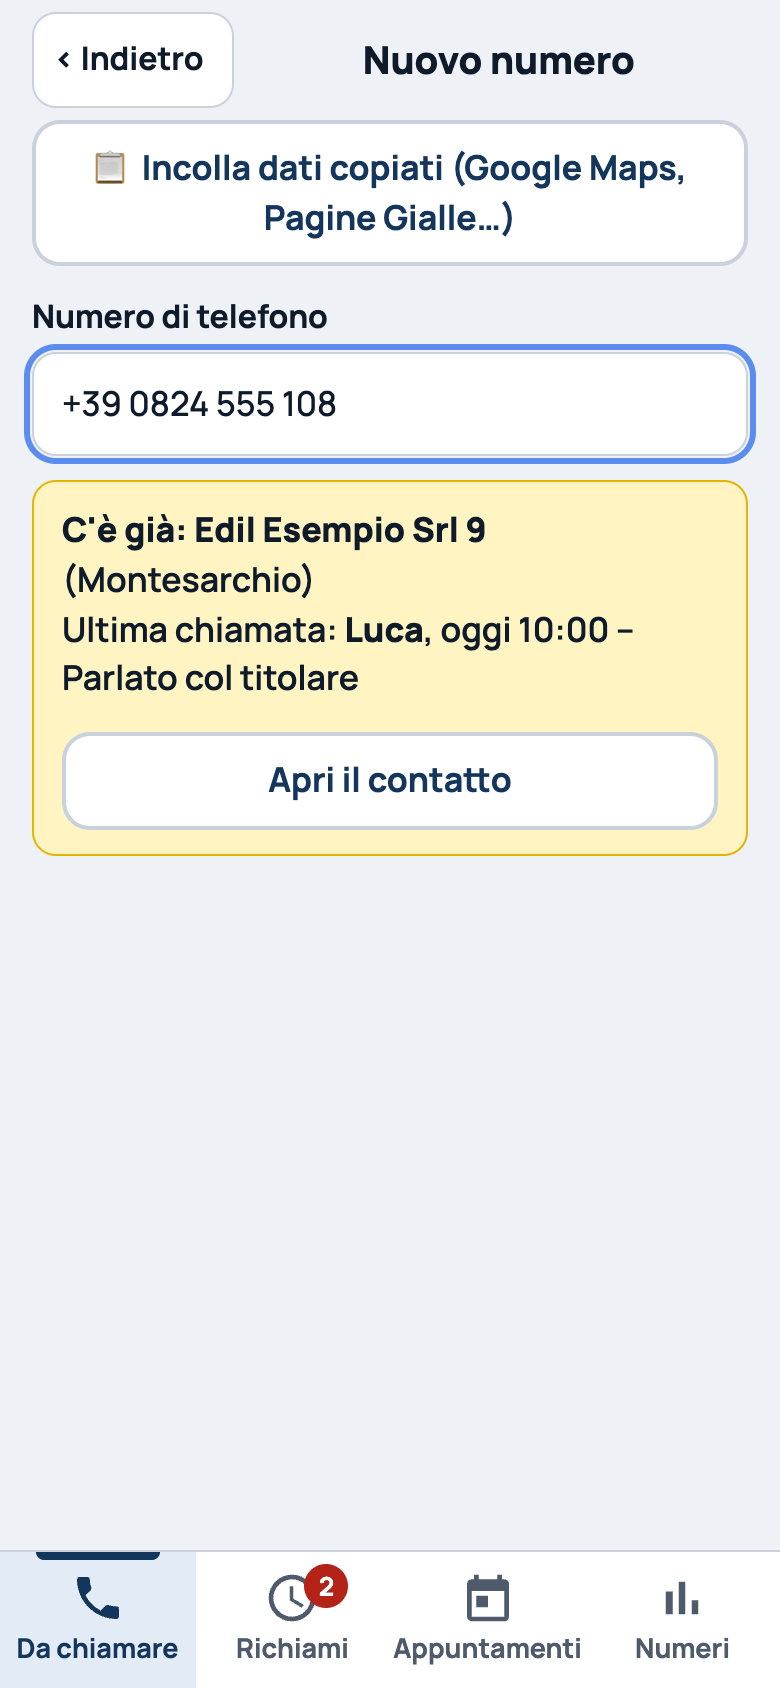
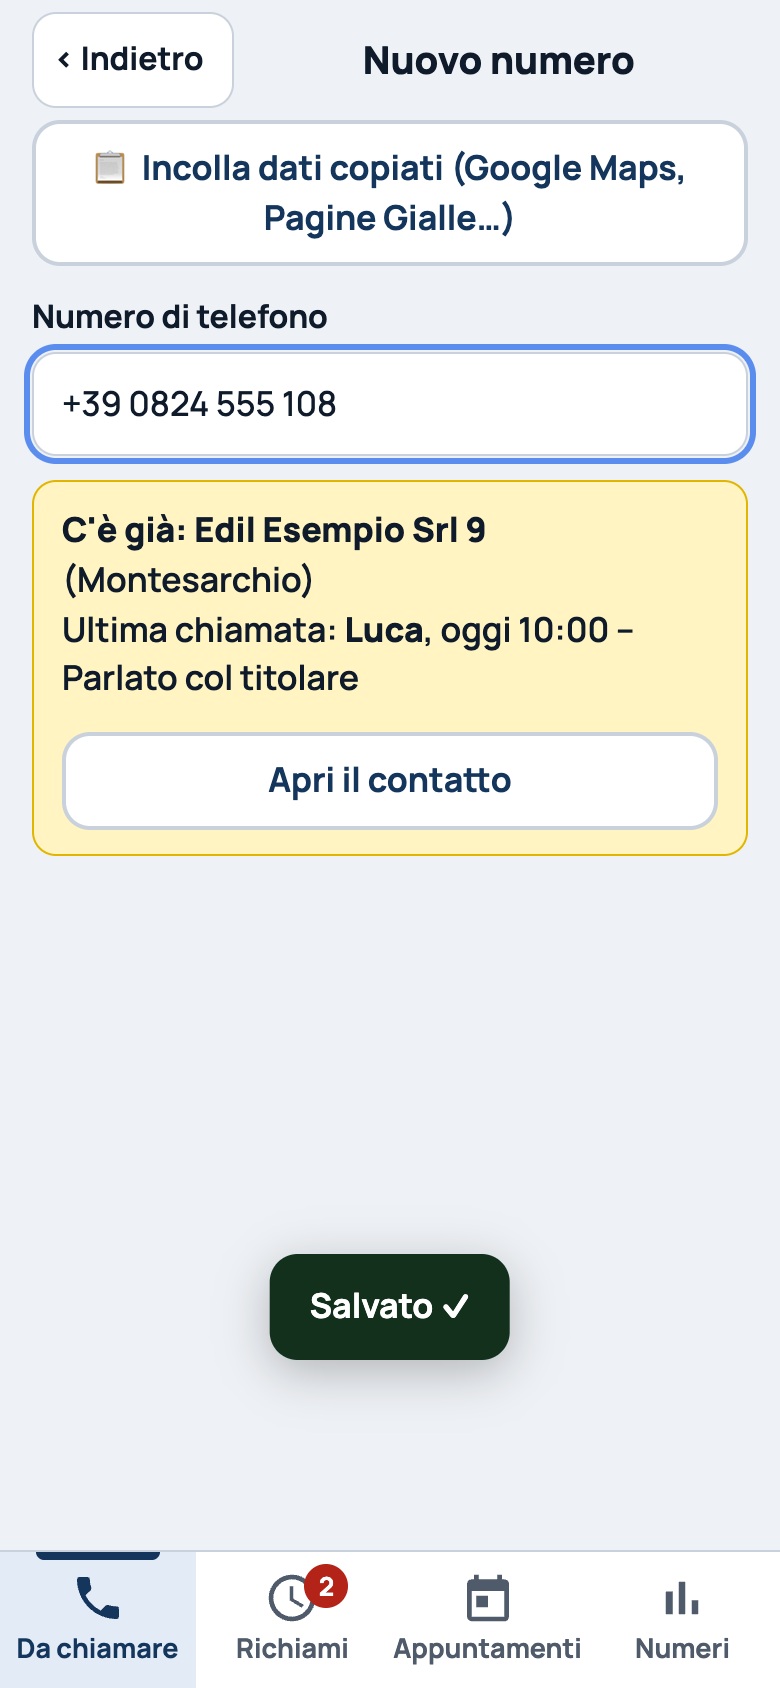
Operazioni atomiche e sincronizzazione più robusta
- "Sto chiamando": vince il primo, "Chiama lo stesso" esplicito; l'ora la decide il server
- "Aggiungi e chiama" in una sola scrittura
- registra_chiamata restituisce anche la riga di storico (niente righe provvisorie)
- Modifica salva solo i campi cambiati, avvisa se un altro ha aggiornato
- Doppio tocco su Salva registra una sola chiamata
- Tempo reale: collegamento prima del caricamento, vince la versione più recente,
  ricarica completa a ogni ricollegamento
- Uscita senza salvare chiede conferma; ritorno dalla chiamata su "Com'è andata?"
- Test: 38 sul database, 15 sui giri, 31 nel browser

Changed region(s): [[0.3385, 0.7393, 0.6769, 0.8318]]

diff --git a/js/dati.js b/js/dati.js
@@ -39,7 +39,7 @@ export async function avvia(clientDiProva) {
     const utente = sessione?.user || null;
     const cambiato = utente?.id !== stato.utente?.id;
     cambia({ pronto: true, utente, nome: utente?.user_metadata?.nome || '' });
-    if (utente && cambiato) setTimeout(caricaTutto, 0);
+    if (utente && cambiato) setTimeout(() => { apriCanale(); caricaTutto(); }, 0);
     if (!utente) { chiudiCanale(); cambia({ aziende: [], storico: [] }); }
   });
   window.addEventListener('online', () => { cambia({ online: true }); if (stato.utente) caricaTutto(); });
@@ -78,26 +78,51 @@ async function leggiTutte(tabella, ordine) {
   }
 }
 
+// Caricamento completo. Se ne viene chiesto un altro mentre uno è in corso, lo rifacciamo dopo:
+// così non perdiamo modifiche avvenute durante il primo.
 let caricamentoInCorso = null;
+let ricaricaDopo = false;
 export function caricaTutto() {
-  if (caricamentoInCorso) return caricamentoInCorso;
+  if (caricamentoInCorso) { ricaricaDopo = true; return caricamentoInCorso; }
   cambia({ caricamento: true });
   caricamentoInCorso = (async () => {
     try {
       const { data: membro } = await db.rpc('e_membro');
       const [aziende, storico] = await Promise.all([leggiTutte('aziende', 'id'), leggiTutte('storico_chiamate', 'id')]);
-      cambia({ aziende, storico, membro: membro !== false });
-      apriCanale();
+      unisci(aziende, storico);
+      cambia({ membro: membro !== false });
     } catch (e) {
       console.warn(e);
     } finally {
       caricamentoInCorso = null;
       cambia({ caricamento: false });
+      if (ricaricaDopo) { ricaricaDopo = false; caricaTutto(); }
     }
   })();
   return caricamentoInCorso;
 }
 
+// Unisce i dati appena letti con quelli già in memoria: vince sempre la versione più recente
+const eliminate = new Set();
+function unisci(aziende, storico) {
+  const attuali = new Map(stato.aziende.map(a => [a.id, a]));
+  const nuove = aziende.filter(a => !eliminate.has(a.id)).map(a => {
+    const mia = attuali.get(a.id);
+    return mia && piuRecente(mia, a) ? mia : a;
+  });
+  const lette = new Set(nuove.map(a => a.id));
+  // aggiunte arrivate in tempo reale mentre leggevamo
+  for (const a of stato.aziende) if (!lette.has(a.id) && new Date(a.creato_il) > Date.now() - 60000) nuove.push(a);
+  const idStorico = new Set(storico.map(c => c.id));
+  cambia({ aziende: nuove, storico: [...storico, ...stato.storico.filter(c => !idStorico.has(c.id))] });
+}
+
+function piuRecente(a, b) {
+  return new Date(a.aggiornato_il) > new Date(b.aggiornato_il);
+}
+
+// Ci colleghiamo agli aggiornamenti in tempo reale; a ogni (ri)collegamento ricarichiamo tutto,
+// così quello che è successo mentre eravamo scollegati non va perso.
 function apriCanale() {
   if (canale) return;
   canale = db.channel('modifiche')
@@ -105,12 +130,12 @@ function apriCanale() {
       if (eventType === 'DELETE') togliAzienda(old.id);
       else mettiAzienda(nuova);
     })
-    .on('postgres_changes', { event: 'INSERT', schema: 'public', table: 'storico_chiamate' }, ({ new: riga }) => {
-      if (stato.storico.some(s => s.id === riga.id)) return;
-      const senzaProvvisoria = stato.storico.filter(s => !(String(s.id).startsWith('temp-') && s.azienda_id === riga.azienda_id));
-      cambia({ storico: [...senzaProvvisoria, riga] });
-    })
-    .subscribe();
+    .on('postgres_changes', { event: 'INSERT', schema: 'public', table: 'storico_chiamate' }, ({ new: riga }) => mettiChiamata(riga))
+    .subscribe(condizione => { if (condizione === 'SUBSCRIBED') caricaTutto(); });
+}
+
+function mettiChiamata(riga) {
+  if (!stato.storico.some(c => c.id === riga.id)) cambia({ storico: [...stato.storico, riga] });
 }
 
 function chiudiCanale() {
@@ -118,22 +143,28 @@ function chiudiCanale() {
   canale = null;
 }
 
+// Un aggiornamento arrivato in ritardo non deve sovrascrivere dati più nuovi
 function mettiAzienda(a) {
-  const altre = stato.aziende.filter(x => x.id !== a.id);
-  cambia({ aziende: [...altre, a] });
+  const attuale = stato.aziende.find(x => x.id === a.id);
+  if (attuale && piuRecente(attuale, a)) return;
+  cambia({ aziende: [...stato.aziende.filter(x => x.id !== a.id), a] });
 }
 
 function togliAzienda(id) {
+  eliminate.add(id);
   cambia({ aziende: stato.aziende.filter(x => x.id !== id), storico: stato.storico.filter(s => s.azienda_id !== id) });
 }
 
 // ---- Azioni ----
 
-export async function segnaInChiamata(id) {
+// Ritorna chi la sta chiamando davvero: se non sono io, qualcuno è arrivato prima
+export async function segnaInChiamata(id, forza = false) {
   const a = stato.aziende.find(x => x.id === id);
-  if (a) mettiAzienda({ ...a, in_chiamata_da: stato.nome, in_chiamata_dal: new Date().toISOString() });
-  const { error } = await db.rpc('segna_in_chiamata', { p_azienda_id: id, p_nome: stato.nome });
+  if (a) cambia({ aziende: stato.aziende.map(x => x.id === id ? { ...x, in_chiamata_da: stato.nome, in_chiamata_dal: new Date().toISOString() } : x) });
+  const { data: chi, error } = await db.rpc('segna_in_chiamata', { p_azienda_id: id, p_nome: stato.nome, p_forza: forza });
   if (error) throw error;
+  if (chi !== stato.nome && a) cambia({ aziende: stato.aziende.map(x => x.id === id ? { ...x, in_chiamata_da: chi } : x) });
+  return chi;
 }
 
 export async function registraChiamata(id, { esito, nota, referente, email, richiamo_il, appuntamento_il, appuntamento_luogo }) {
@@ -144,19 +175,17 @@ export async function registraChiamata(id, { esito, nota, referente, email, rich
     p_appuntamento_luogo: appuntamento_luogo || null,
   });
   if (error) throw error;
-  mettiAzienda(data);
-  // la riga di storico arriva in tempo reale; intanto la mostriamo subito
-  cambia({ storico: [...stato.storico, { id: `temp-${Date.now()}`, azienda_id: id, utente_nome: stato.nome, chiamata_il: new Date().toISOString(), esito, nota: nota || null }] });
-  setTimeout(() => cambia({ storico: stato.storico.filter(s => !String(s.id).startsWith('temp-')) }), 4000);
-  return data;
+  mettiAzienda(data.azienda);
+  mettiChiamata(data.chiamata);
+  return data.azienda;
 }
 
 export async function aggiungiAzienda(campi, { chiamo = false } = {}) {
-  const riga = { ...pulisci(campi), creato_da: stato.nome };
+  // con "Aggiungi e chiama" il contatto nasce già segnato "in chiamata": una sola scrittura
+  const riga = { ...pulisci(campi), creato_da: stato.nome, ...(chiamo ? { in_chiamata_da: stato.nome } : {}) };
   const { data, error } = await db.from('aziende').insert(riga).select().single();
   if (error) throw error;
   mettiAzienda(data);
-  if (chiamo) await segnaInChiamata(data.id);
   return data;
 }
 

diff --git a/js/finto-supabase.js b/js/finto-supabase.js
@@ -84,12 +84,15 @@ export function creaClientFinto() {
     avvisaCanali(table, eventType, riga, old);
   };
 
-  function prepara(riga) {
+  // come il trigger prepara_azienda dello script SQL
+  function prepara(riga, vecchia) {
     if ('telefono' in riga) {
       riga.telefono = normalizzaTelefono(riga.telefono);
       if (!riga.telefono) throw { message: 'Numero di telefono non valido' };
     }
     riga.aggiornato_il = new Date().toISOString();
+    if (!riga.in_chiamata_da) riga.in_chiamata_dal = null;
+    else if (!vecchia || vecchia.in_chiamata_da !== riga.in_chiamata_da) riga.in_chiamata_dal = new Date().toISOString();
     return riga;
   }
 
@@ -124,7 +127,7 @@ export function creaClientFinto() {
       }
       if (this.op === 'update') {
         const cambiate = dati.filter(corrisponde).map(r => {
-          const nuova = prepara({ ...r, ...this.campi });
+          const nuova = prepara({ ...r, ...this.campi }, r);
           if (dati.some(x => x.id !== r.id && x.telefono === nuova.telefono)) throw { code: '23505', message: 'duplicate' };
           Object.assign(r, nuova); emetti(this.table, 'UPDATE', { ...r }); return { ...r };
         });
@@ -174,11 +177,16 @@ export function creaClientFinto() {
       const a = tabelle.aziende.find(x => x.id === p.p_azienda_id);
       if (!a) return { data: null, error: { message: 'Azienda non trovata' } };
       if (nome === 'segna_in_chiamata') {
-        Object.assign(a, { in_chiamata_da: p.p_nome, in_chiamata_dal: new Date().toISOString() });
-        emetti('aziende', 'UPDATE', { ...a });
-        return { data: null, error: null };
+        const libera = !a.in_chiamata_da || a.in_chiamata_da === p.p_nome || Date.now() - new Date(a.in_chiamata_dal) > 10 * 60000;
+        if (p.p_forza || libera) {
+          Object.assign(a, { in_chiamata_da: p.p_nome, in_chiamata_dal: new Date().toISOString(), aggiornato_il: new Date().toISOString() });
+          emetti('aziende', 'UPDATE', { ...a });
+        }
+        return { data: a.in_chiamata_da, error: null };
       }
       if (nome === 'registra_chiamata') {
+        const validi = ['nuovo', 'non_risponde', 'segreteria', 'parlato_titolare', 'parlato_altri', 'richiamare', 'manda_mail', 'demo_fissata', 'non_interessato', 'fuori_target'];
+        if (!validi.includes(p.p_esito)) return { data: null, error: { message: 'violates check constraint' } };
         const riga = { id: nuovoId("storico_chiamate"), azienda_id: a.id, utente_nome: p.p_nome, chiamata_il: new Date().toISOString(), esito: p.p_esito, nota: p.p_nota?.trim() || null };
         tabelle.storico.push(riga); emetti('storico_chiamate', 'INSERT', riga);
         Object.assign(a, {
@@ -187,10 +195,10 @@ export function creaClientFinto() {
           appuntamento_il: p.p_esito === 'demo_fissata' ? p.p_appuntamento_il : a.appuntamento_il,
           appuntamento_luogo: p.p_esito === 'demo_fissata' ? (p.p_appuntamento_luogo?.trim() || null) : a.appuntamento_luogo,
           in_chiamata_da: null, in_chiamata_dal: null, ultimo_chiamante: p.p_nome,
-          ultima_chiamata_il: new Date().toISOString(), tentativi: a.tentativi + 1,
+          ultima_chiamata_il: new Date().toISOString(), tentativi: a.tentativi + 1, aggiornato_il: new Date().toISOString(),
         });
         emetti('aziende', 'UPDATE', { ...a });
-        return { data: { ...a }, error: null };
+        return { data: { azienda: { ...a }, chiamata: riga }, error: null };
       }
       return { data: null, error: { message: 'funzione sconosciuta' } };
     },

diff --git a/js/altro.js b/js/altro.js
@@ -101,7 +101,10 @@ export function Aggiungi() {
   const problema = !telefono ? '' : !normalizzato ? 'Il numero sembra incompleto.' : '';
   const pronto = normalizzato && !esistente && nome.trim();
 
+  const salvataggio = useRef(false);
   async function salva(chiamo) {
+    if (salvataggio.current) return;
+    salvataggio.current = true;
     setSalvo(true);
     try {
       const nuova = await aggiungiAzienda({ nome_azienda: nome, telefono: normalizzato, comune: comuneUniforme(comune), email, note }, { chiamo });
@@ -110,6 +113,7 @@ export function Aggiungi() {
       vai('/azienda/' + nuova.id);
     } catch (e) {
       errore(e);
+      salvataggio.current = false;
       setSalvo(false);
     }
   }
@@ -173,6 +177,7 @@ export function Modifica({ id }) {
   const s = useDati();
   const a = s.aziende.find(x => x.id === id);
   const [d, setD] = useState(a ? { ...a } : null);
+  const originale = useRef(a ? { ...a } : null);
   const [salvo, setSalvo] = useState(false);
   if (!a || !d) return html`<main class="schermata"><${Intestazione} conIndietro destra=${null} /><div class="vuoto">Questo contatto non c'è più.</div></main>`;
 
@@ -183,13 +188,15 @@ export function Modifica({ id }) {
   async function salva() {
     if (!d.nome_azienda?.trim()) { avviso('Manca il nome dell\'azienda.', 'errore'); return; }
     if (!normalizzaTelefono(d.telefono)) { avviso('Il numero di telefono non sembra giusto.', 'errore'); return; }
+    // Mandiamo solo i campi cambiati qui: così non cancelliamo quello che un altro ha salvato nel frattempo
+    const campi = ['nome_azienda', 'telefono', 'comune', 'email', 'referente', 'esito', 'note', 'richiamo_il', 'appuntamento_il', 'appuntamento_luogo'];
+    const cambiati = {};
+    for (const c of campi) if ((d[c] || null) !== (originale.current[c] || null)) cambiati[c] = d[c] || null;
+    if (cambiati.comune) cambiati.comune = comuneUniforme(cambiati.comune);
+    if (!Object.keys(cambiati).length) { indietro(); return; }
     setSalvo(true);
     try {
-      await aggiornaAzienda(a.id, {
-        nome_azienda: d.nome_azienda, telefono: d.telefono, comune: comuneUniforme(d.comune || ''), email: d.email,
-        referente: d.referente, esito: d.esito, note: d.note,
-        richiamo_il: d.richiamo_il || null, appuntamento_il: d.appuntamento_il || null, appuntamento_luogo: d.appuntamento_luogo,
-      });
+      await aggiornaAzienda(a.id, cambiati);
       avviso('Salvato ✓');
       indietro();
     } catch (e) { errore(e); }
@@ -203,6 +210,7 @@ export function Modifica({ id }) {
 
   return html`<main class="schermata">
     <${Intestazione} conIndietro titolo="Modifica" destra=${null} />
+    ${a.aggiornato_il !== originale.current.aggiornato_il && html`<div class="banner banner-info">${a.ultimo_chiamante && a.ultima_chiamata_il !== originale.current.ultima_chiamata_il ? `${a.ultimo_chiamante} ha appena aggiornato` : 'Qualcuno ha appena aggiornato'} questo contatto. Salvando cambi solo i campi che hai modificato tu.</div>`}
     <label>Nome azienda <input value=${d.nome_azienda || ''} onInput=${imposta('nome_azienda')} /></label>
     <label>Telefono <input type="tel" value=${d.telefono || ''} onInput=${imposta('telefono')} /></label>
     ${altroConStessoNumero && html`<${GiaPresente} azienda=${altroConStessoNumero} />`}

diff --git a/js/schermate.js b/js/schermate.js
@@ -151,6 +151,7 @@ export function Scheda({ id }) {
   const setRichiamo = v => { impostaRichiamo(v); setProblema(''); };
   const setAppuntamento = v => { impostaAppuntamento(v); setProblema(''); };
   const passo1 = useRef(null);
+  const salvataggio = useRef(false);
   const passo2 = useRef(null);
   const storico = a ? storicoDi(a.id) : [];
   const vaiAgliEsiti = () => passo1.current?.scrollIntoView({ behavior: 'smooth', block: 'start' });
@@ -193,6 +194,8 @@ export function Scheda({ id }) {
   async function salva(eProssimo) {
     if (e.chiede === 'richiamo' && !richiamo) { setProblema('Scegli quando richiamare.'); return; }
     if (e.chiede === 'appuntamento' && !appuntamento) { setProblema('Scegli giorno e ora della demo.'); return; }
+    if (salvataggio.current) return;  // doppio tocco: si salva una volta sola
+    salvataggio.current = true;
     setSalvo(true);
     try {
       await registraChiamata(a.id, {
@@ -212,6 +215,7 @@ export function Scheda({ id }) {
         setScelta(''); setNota(''); setRichiamo('');
       }
     } catch (err) { errore(err); }
+    salvataggio.current = false;
     setSalvo(false);
   }
 

diff --git a/js/app.js b/js/app.js
@@ -63,7 +63,9 @@ export function PulsanteChiama({ azienda, grande, poi, testo = 'Chiama' }) {
   const altro = chiamaUnAltro(azienda);
   function clic(ev) {
     if (altro && !confirm(`${altro} la sta chiamando adesso. Vuoi chiamare lo stesso?`)) { ev.preventDefault(); return; }
-    segnaInChiamata(azienda.id).catch(() => {});
+    segnaInChiamata(azienda.id, !!altro)
+      .then(chi => { if (chi && chi !== stato.nome) avviso(`${chi} la stava già chiamando`, 'errore'); })
+      .catch(() => {});
     if (poi) setTimeout(poi, 300);
   }
   return html`<a class=${grande ? 'pulsante pulsante-chiama grande' : 'tondo-chiama'} href=${'tel:' + azienda.telefono}
